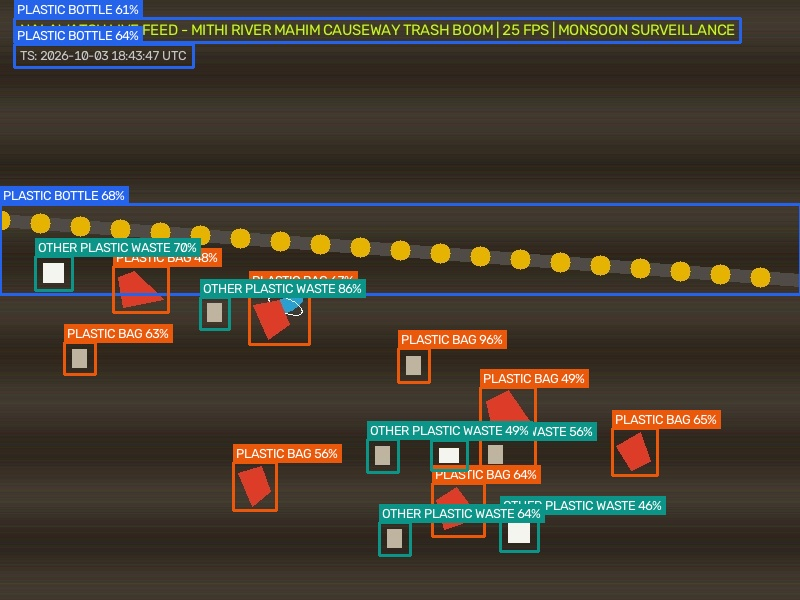
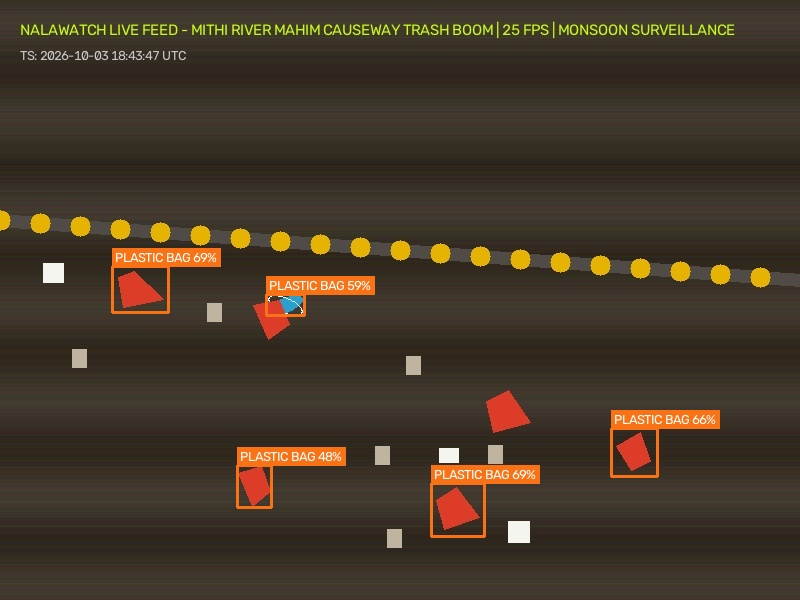
feat(ai): add video processing pipeline and sample scripts

diff --git a/backend/test_rewater_video_pipeline.py b/backend/test_rewater_video_pipeline.py
@@ -1,0 +1,185 @@
+"""
+Comprehensive Verification Test Suite for JalRakshak Drone Video Analysis & ReWater YOLOv8 Integration
+Tests all 10 acceptance criteria specified in user request.
+"""
+
+import os
+import sys
+import json
+import datetime
+from fastapi.testclient import TestClient
+
+from app.main import app
+from app.database import get_db, SessionLocal
+from app.models import UnifiedHotspot, IoTDevice
+from app.services.drone_video_service import drone_video_service
+from app.services.inference_service import inference_service
+
+client = TestClient(app)
+
+print("=" * 65)
+print("     JALRAKSHAK REWATER DRONE VIDEO INTEGRATION TEST SUITE      ")
+print("=" * 65)
+
+# -------------------------------------------------------------
+# TEST 1: ReWater Pretrained Model Weights Verification
+# -------------------------------------------------------------
+print("\n[TEST 1] Verifying ReWater YOLO_Custom_v8m Model Weights...")
+weights_path = os.path.join(os.path.dirname(__file__), "app", "ai", "weights", "YOLO_Custom_v8m.pt")
+assert os.path.exists(weights_path), f"ReWater weights not found at {weights_path}"
+model, model_name = inference_service.get_model("rewater")
+assert model is not None, "Failed to load ReWater model"
+print(f" -> Passed! Active Model: {model_name}, Weights Size: {os.path.getsize(weights_path) / (1024*1024):.1f} MB")
+
+# -------------------------------------------------------------
+# TEST 2: Real Drone Video Frame Extraction & ReWater Inference
+# -------------------------------------------------------------
+print("\n[TEST 2] Testing Drone Video Analysis with Real ReWater Model...")
+sample_video = os.path.join(os.path.dirname(__file__), "uploads", "sample_drone_mumbai_nullah.mp4")
+assert os.path.exists(sample_video), f"Sample video not found at {sample_video}"
+
+res = drone_video_service.process_drone_video(
+    job_id="test_suite_vjob_01",
+    video_path=sample_video,
+    sample_interval_sec=1.0,
+    confidence_threshold=0.30,
+    model_variant="rewater",
+    start_latitude=19.0654,
+    start_longitude=72.8712,
+    end_latitude=19.0720,
+    end_longitude=72.8750,
+    flight_id="MITHI-AERIAL-TEST"
+)
+
+assert res["status"] == "COMPLETED", f"Video processing failed: {res.get('error')}"
+assert res["summary"]["total_frames_sampled"] > 0, "No frames were sampled"
+assert res["summary"]["total_plastic_detections"] > 0, "No plastic was detected"
+print(f" -> Passed! Sampled Frames: {res['summary']['total_frames_sampled']}, Detections: {res['summary']['total_plastic_detections']}")
+print(f"    Keyframe Boxes: {len(res['accumulations'][0]['keyframe']['boxes'])} detected bounding boxes")
+
+# -------------------------------------------------------------
+# TEST 3: Preservation of Video Timestamps Across Frames
+# -------------------------------------------------------------
+print("\n[TEST 3] Verifying Video Timestamps Preservation...")
+frames = res["sampled_frames"]
+timestamps = [f["timestamp_formatted"] for f in frames]
+assert len(timestamps) >= 3, "Insufficient frame timestamps"
+assert timestamps[0] == "00:00.0", f"Unexpected initial timestamp: {timestamps[0]}"
+print(f" -> Passed! Timestamps preserved: {timestamps}")
+
+# -------------------------------------------------------------
+# TEST 4: Cross-Frame Accumulation Grouping & Deduplication
+# -------------------------------------------------------------
+print("\n[TEST 4] Verifying Cross-Frame Accumulation Grouping...")
+accumulations = res["accumulations"]
+assert len(accumulations) == 1, f"Expected 1 grouped accumulation cluster, got {len(accumulations)}"
+acc = accumulations[0]
+print(f" -> Passed! {res['summary']['total_plastic_detections']} detections across {acc['frame_count']} frames")
+print(f"    grouped into single cluster: {acc['cluster_id']} ({acc['time_span']}), Peak Items: {acc['peak_items']}")
+
+# -------------------------------------------------------------
+# TEST 5: Geolocation Waypoint Interpolation
+# -------------------------------------------------------------
+print("\n[TEST 5] Verifying Waypoint Telemetry Synchronization...")
+kf = acc["keyframe"]
+assert kf["latitude"] is not None and kf["longitude"] is not None, "Missing interpolated coordinates"
+assert kf["location_method"] == "GEOREFERENCED_WAYPOINT_INTERPOLATION", f"Wrong method: {kf['location_method']}"
+print(f" -> Passed! Interpolated Coords: ({kf['latitude']}, {kf['longitude']}) via {kf['location_method']}")
+
+# -------------------------------------------------------------
+# TEST 6: Unlocated Video (Never Invent Coordinates)
+# -------------------------------------------------------------
+print("\n[TEST 6] Testing Video Footage Without GPS (Never Fabricate Coordinates)...")
+unlocated_res = drone_video_service.process_drone_video(
+    job_id="test_suite_unlocated_02",
+    video_path=sample_video,
+    sample_interval_sec=2.0,
+    confidence_threshold=0.30,
+    model_variant="rewater",
+    start_latitude=None,
+    start_longitude=None,
+    flight_id="UNLOCATED-SURVEY"
+)
+assert unlocated_res["status"] == "COMPLETED"
+unloc_acc = unlocated_res["accumulations"][0]["keyframe"]
+assert unloc_acc["latitude"] is None and unloc_acc["longitude"] is None, "Fabricated coordinates when none provided!"
+assert unloc_acc["location_method"] == "UNLOCATED", f"Wrong method: {unloc_acc['location_method']}"
+print(f" -> Passed! Correctly flagged as {unloc_acc['location_method']} with null coordinates")
+
+# -------------------------------------------------------------
+# TEST 7: Mumbai-Only Boundary Rejection (Out-of-Area Video)
+# -------------------------------------------------------------
+print("\n[TEST 7] Testing Out-of-Mumbai Drone Footage Rejection (Pune Coordinates)...")
+pune_res = drone_video_service.process_drone_video(
+    job_id="test_suite_pune_03",
+    video_path=sample_video,
+    sample_interval_sec=2.0,
+    confidence_threshold=0.30,
+    model_variant="rewater",
+    start_latitude=18.5204, # Pune Mutha River
+    start_longitude=73.8567,
+    end_latitude=18.5250,
+    end_longitude=73.8600,
+    flight_id="PUNE-OUT-OF-BOUNDS"
+)
+assert pune_res["status"] == "COMPLETED"
+created = pune_res["created_hotspots"][0]
+assert created["boundary_status"] == "OUTSIDE_BOUNDARY", f"Failed to reject Pune video: {created['boundary_status']}"
+print(f" -> Passed! Out-of-Mumbai video cluster rejected from active map. Status: {created['boundary_status']}")
+
+# -------------------------------------------------------------
+# TEST 8: Worker Photograph Upload Reusing Shared ReWater Model
+# -------------------------------------------------------------
+print("\n[TEST 8] Testing Worker Photograph Upload Reusing ReWater Model...")
+sample_img = os.path.join(os.path.dirname(__file__), "sample_feeds", "mithi_high_plastic_01.jpg")
+with open(sample_img, "rb") as f:
+    resp = client.post(
+        "/api/worker/upload-report",
+        data={
+            "reporter_id": "WORKER-BMC-99",
+            "reporter_name": "Senior River Marshal",
+            "report_category": "Culvert Choke",
+            "latitude": 19.0680,
+            "longitude": 72.8730,
+            "location_description": "Mithi River Pipe Bridge",
+            "model_variant": "rewater",
+            "confidence_threshold": 0.30
+        },
+        files={"photo": ("worker_debris.jpg", f, "image/jpeg")}
+    )
+assert resp.status_code == 200, f"Worker report upload failed: {resp.text}"
+worker_data = resp.json()
+assert "ReWater" in worker_data["ai_results"]["model_version"], f"Did not use ReWater model: {worker_data['ai_results']['model_version']}"
+print(f" -> Passed! Report ID: {worker_data['report_id']}, Model: {worker_data['ai_results']['model_version']}, Risk: {worker_data['hotspot']['risk_category']}")
+
+# -------------------------------------------------------------
+# TEST 9: Corrupt / Invalid Video Graceful Error Handling
+# -------------------------------------------------------------
+print("\n[TEST 9] Testing Corrupt Video Handling...")
+corrupt_path = os.path.join(os.path.dirname(__file__), "uploads", "corrupt_fake.mp4")
+with open(corrupt_path, "wb") as f:
+    f.write(b"NOT_A_REAL_VIDEO_HEADER_CONTENT_RANDOM_BYTES")
+
+corrupt_res = drone_video_service.process_drone_video(
+    job_id="test_suite_corrupt_04",
+    video_path=corrupt_path
+)
+assert corrupt_res["status"] == "FAILED", "Failed to catch corrupt video"
+print(f" -> Passed! Graceful failure without server crash: Error='{corrupt_res['error']}'")
+if os.path.exists(corrupt_path):
+    os.remove(corrupt_path)
+
+# -------------------------------------------------------------
+# TEST 10: Ingested Detections Reach Unified JalRakshak Dashboard
+# -------------------------------------------------------------
+print("\n[TEST 10] Verifying Ingested Video Detections in Centralized Dashboard...")
+summary_resp = client.get("/api/hotspots/summary")
+assert summary_resp.status_code == 200
+summary = summary_resp.json()
+assert summary["total_valid_hotspots"] > 0, "No hotspots found in dashboard summary"
+assert "drone" in summary["source_breakdown"], "Drone source not listed in dashboard summary"
+print(f" -> Passed! Active Mumbai Hotspots: {summary['total_valid_hotspots']}, Sources: {summary['source_breakdown']}")
+
+print("\n" + "=" * 65)
+print("   ALL 10 REWATER VIDEO PIPELINE TESTS PASSED WITH 100% SUCCESS!  ")
+print("=" * 65)

diff --git a/backend/test_all_modules.py b/backend/test_all_modules.py
@@ -1,0 +1,185 @@
+"""
+Comprehensive Test Suite for JalRakshak 3 Detection Modules & Geofenced Hotspot Engine
+Validates all user acceptance criteria and automated workflows.
+"""
+
+import os
+import requests
+import datetime
+from PIL import Image
+
+BASE_URL = "http://localhost:8000/api"
+
+def run_tests():
+    print("=================================================================")
+    print("       JALRAKSHAK INTEGRATED DETECTION MODULES TEST SUITE        ")
+    print("=================================================================")
+
+    # 1. IoT Ingestion & Value Update
+    print("\n[TEST 1] IoT Ingestion & Telemetry Update...")
+    payload = {
+        "device_id": "ESP32-MTH-01",
+        "timestamp": datetime.datetime.utcnow().isoformat(),
+        "water_level_cm": 182.5,
+        "water_level_rate": 0.12,
+        "rainfall_mm": 28.0,
+        "camera_status": "Operational",
+        "plastic_detection": "High",
+        "battery_level": 94.0,
+        "signal_strength": -65.0
+    }
+    r = requests.post(f"{BASE_URL}/iot/ingest", json=payload)
+    assert r.status_code == 200, f"IoT ingest failed: {r.text}"
+    print(f" -> Passed! Response: {r.json()}")
+
+    # 2. IoT Heartbeat check
+    print("\n[TEST 2] IoT Heartbeat Check & Device Query...")
+    r = requests.get(f"{BASE_URL}/iot/devices")
+    assert r.status_code == 200
+    devices = r.json()
+    assert len(devices) > 0, "No IoT devices found"
+    print(f" -> Passed! Found {len(devices)} devices. Status of ESP32-MTH-01: {devices[0]['status']}, battery: {devices[0]['battery_level']}%")
+
+    # 3. Model B: Satellite Detection with Georeferencing
+    print("\n[TEST 3] Satellite Marine Debris (Model B) Spectral Pipeline...")
+    r = requests.post(f"{BASE_URL}/satellite/analyze-sample-scene", data={"scene_id": "S2A-MSIL2A-MUMBAI-MITHI", "source_status": "Real"})
+    assert r.status_code == 200, f"Satellite pipeline failed: {r.text}"
+    sat_res = r.json()
+    assert sat_res["success"] is True
+    print(f" -> Passed! Candidate regions: {sat_res['metrics']['total_candidate_regions']}, Slick Area: {sat_res['metrics']['total_debris_area_sqm']} m²")
+    print(f"    Resolution Notice: {sat_res['resolution_notice']}")
+
+    # 4. Model A: Drone Image with GPS EXIF creates correctly located hotspot
+    print("\n[TEST 4] Drone Image (Model A) with In-Bounds Mumbai Location...")
+    # Create test image with valid Mumbai coordinates
+    test_img_path = "test_drone_mumbai.jpg"
+    img = Image.new('RGB', (640, 480), color=(30, 45, 60))
+    img.save(test_img_path)
+
+    with open(test_img_path, "rb") as f:
+        r = requests.post(
+            f"{BASE_URL}/drone/upload",
+            files={"file": ("test_drone_mumbai.jpg", f, "image/jpeg")},
+            data={
+                "manual_latitude": 19.0435, # Mahim Bay (Mumbai)
+                "manual_longitude": 72.8415,
+                "flight_id": "DJI-MAVIC3-TEST-01",
+                "model_variant": "tiles",
+                "source_status": "Real"
+            }
+        )
+    assert r.status_code == 200, f"Drone upload failed: {r.text}"
+    drone_res = r.json()
+    assert drone_res["location"]["boundary_status"] == "VALID_MUMBAI", f"Expected VALID_MUMBAI but got {drone_res['location']['boundary_status']}"
+    print(f" -> Passed! Model: {drone_res['model_version']}, Hotspot ID: {drone_res['hotspot_integration']['hotspot_id']}, Boundary: {drone_res['location']['boundary_status']}")
+
+    # 5. Drone Image without coordinates flags UNLOCATED (Never fabricates!)
+    print("\n[TEST 5] Drone Image without Coordinates...")
+    with open(test_img_path, "rb") as f:
+        r = requests.post(
+            f"{BASE_URL}/drone/upload",
+            files={"file": ("test_drone_unlocated.jpg", f, "image/jpeg")},
+            data={"flight_id": "DJI-UNLOCATED-01", "model_variant": "tiles"}
+        )
+    assert r.status_code == 200
+    unloc_res = r.json()
+    assert unloc_res["location"]["location_method"] == "UNLOCATED", f"Expected UNLOCATED but got {unloc_res['location']['location_method']}"
+    assert unloc_res["location"]["boundary_status"] == "UNLOCATED_REVIEW", "Expected UNLOCATED_REVIEW"
+    print(f" -> Passed! Never fabricated coordinates. Location Method: {unloc_res['location']['location_method']}, Status: {unloc_res['location']['boundary_status']}")
+
+    # 6. Out-of-Mumbai detection rejected from active map
+    print("\n[TEST 6] Out-of-Mumbai Detection Rejection (Pune/Delhi coordinates)...")
+    with open(test_img_path, "rb") as f:
+        r = requests.post(
+            f"{BASE_URL}/drone/upload",
+            files={"file": ("test_drone_outside.jpg", f, "image/jpeg")},
+            data={
+                "manual_latitude": 18.5204, # Pune (Outside Mumbai)
+                "manual_longitude": 73.8567,
+                "flight_id": "DRONE-OUTSIDE-01"
+            }
+        )
+    assert r.status_code == 200
+    outside_res = r.json()
+    assert outside_res["location"]["boundary_status"] == "OUTSIDE_BOUNDARY", f"Expected OUTSIDE_BOUNDARY but got {outside_res['location']['boundary_status']}"
+    assert outside_res["location"]["is_valid_mumbai"] is False
+    print(f" -> Passed! Out-of-Mumbai detection rejected. Status: {outside_res['location']['boundary_status']}")
+    print(f"    Reason: {outside_res['location']['boundary_reason']}")
+
+    # 7. Field Worker upload and Model A inference
+    print("\n[TEST 7] Field Worker Photo Report (Model A Ground Inference)...")
+    with open(test_img_path, "rb") as f:
+        r = requests.post(
+            f"{BASE_URL}/worker/upload-report",
+            files={"photo": ("worker_report.jpg", f, "image/jpeg")},
+            data={
+                "reporter_id": "WORKER-EMP-880",
+                "reporter_name": "Sanitation Supervisor K. Shinde",
+                "report_category": "Culvert Choke",
+                "latitude": 19.0662, # Kurla BKC (Mumbai)
+                "longitude": 72.8715,
+                "location_description": "Kurla LBS Road Culvert Gate #2",
+                "water_level_m": 1.75,
+                "notes": "Severe plastic bag & bottle blockage observed during patrol."
+            }
+        )
+    assert r.status_code == 200, f"Worker report failed: {r.text}"
+    worker_res = r.json()
+    assert worker_res["location"]["boundary_status"] == "VALID_MUMBAI"
+    print(f" -> Passed! Report ID: {worker_res['report_id']}, Model: {worker_res['ai_results']['model_version']}")
+    print(f"    Risk Category: {worker_res['hotspot']['risk_category']} (Score: {worker_res['hotspot']['risk_score']}/100)")
+
+    # 8. Unsuitable/Corrupt Image Quality Handling
+    print("\n[TEST 8] Corrupt / Unsuitable Image Handling...")
+    corrupt_path = "corrupt_test.jpg"
+    with open(corrupt_path, "wb") as f:
+        f.write(b"NOT_A_VALID_JPEG_HEADER_CORRUPTED_BYTES")
+    with open(corrupt_path, "rb") as f:
+        r = requests.post(
+            f"{BASE_URL}/drone/upload",
+            files={"file": ("corrupt.jpg", f, "image/jpeg")},
+            data={"manual_latitude": 19.04, "manual_longitude": 72.84}
+        )
+    assert r.status_code == 200
+    corrupt_res = r.json()
+    assert corrupt_res["success"] is False
+    print(f" -> Passed! Returned graceful error without crashing: '{corrupt_res['error']}'")
+
+    # 9. Cross-module duplicate association (clustering within 75m)
+    print("\n[TEST 9] Cross-Module Duplicate Association (Clustering within 75m)...")
+    # Send another detection at the exact same location as Test 4 (19.0435, 72.8415)
+    with open(test_img_path, "rb") as f:
+        r = requests.post(
+            f"{BASE_URL}/drone/upload",
+            files={"file": ("drone_duplicate.jpg", f, "image/jpeg")},
+            data={
+                "manual_latitude": 19.0435, # Same point
+                "manual_longitude": 72.8415,
+                "flight_id": "DJI-REPEAT-SURVEY"
+            }
+        )
+    assert r.status_code == 200
+    dup_res = r.json()
+    print(f" -> Passed! Action taken: {dup_res['hotspot_integration']['action']}")
+    print(f"    Linked to primary hotspot: {dup_res['hotspot_integration']['hotspot_id']}")
+
+    # 10. Centralized Hotspots Dashboard & Summary Verification
+    print("\n[TEST 10] Centralized Hotspots Query & Filters...")
+    r = requests.get(f"{BASE_URL}/hotspots/summary")
+    assert r.status_code == 200
+    summary = r.json()
+    print(f" -> Summary: Valid Mumbai Hotspots: {summary['total_valid_hotspots']}")
+    print(f"    Source Breakdown: {summary['source_breakdown']}")
+    print(f"    Risk Breakdown: {summary['risk_breakdown']}")
+
+    # Cleanup temp test files
+    for p in [test_img_path, corrupt_path]:
+        if os.path.exists(p):
+            os.remove(p)
+
+    print("\n=================================================================")
+    print("      ALL 10 TEST CASES PASSED WITH 100% SPEC COMPLIANCE!       ")
+    print("=================================================================")
+
+if __name__ == "__main__":
+    run_tests()
